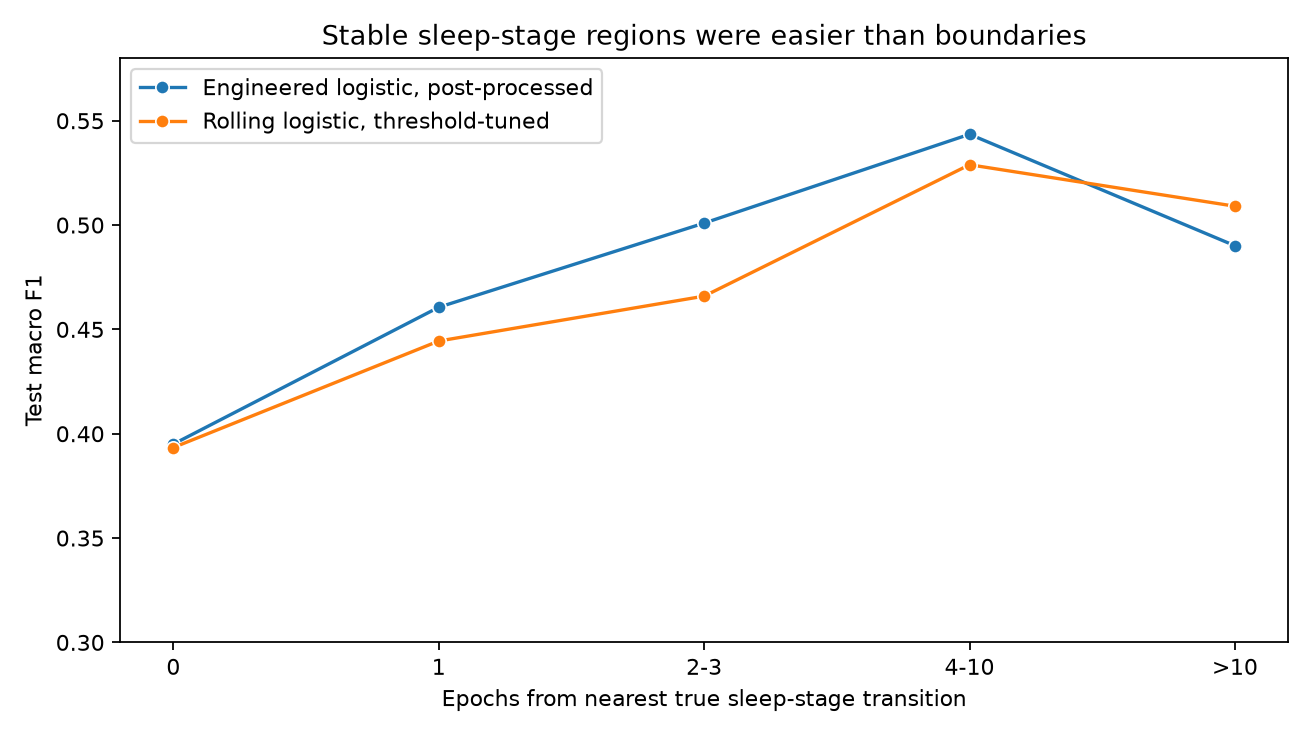
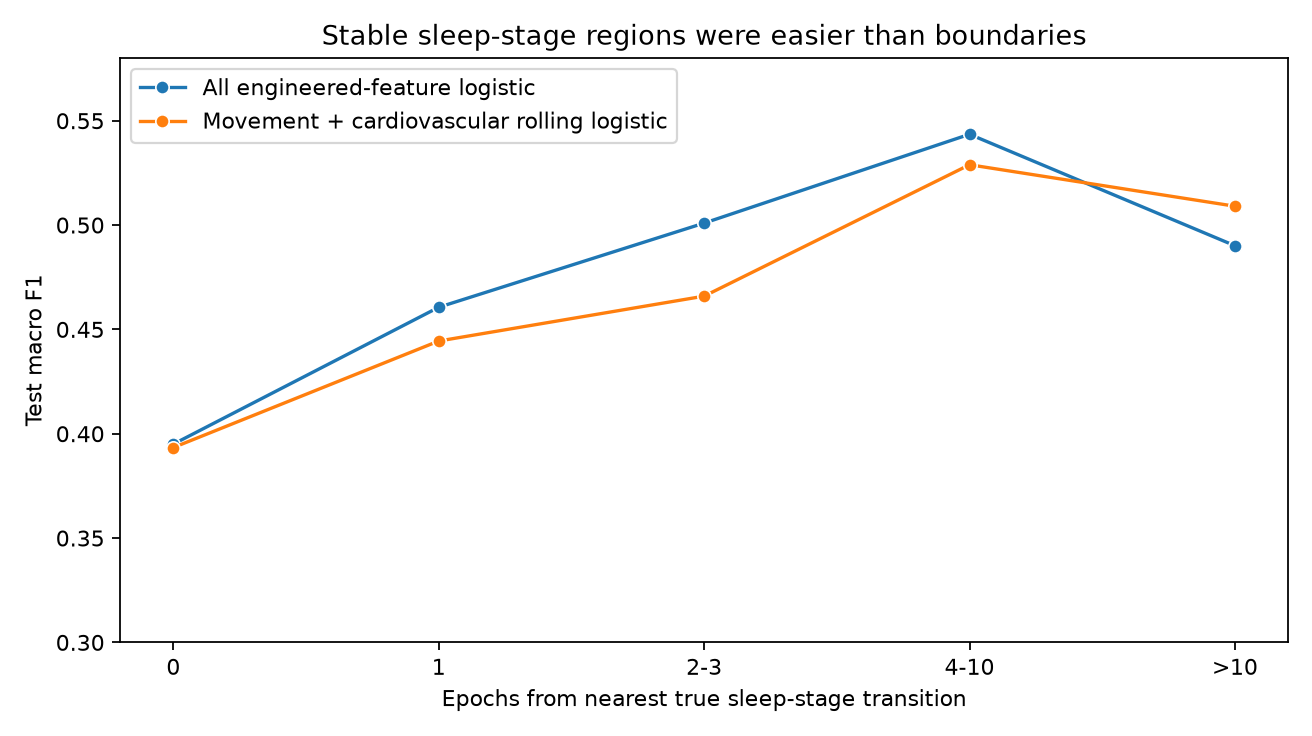
Add plots to illustrate limitations

Changed region(s): [[0.1562, 0.0938, 0.5312, 0.1875]]

diff --git a/scripts/generate_readme_figures.py b/scripts/generate_readme_figures.py
@@ -97,6 +97,7 @@ def main() -> None:
     make_postprocessing_tradeoff_figure()
     make_validation_ablation_figures()
     make_transition_distance_figure()
+    make_limitation_figures()
     make_coefficient_contrast_figure()
     write_artifact_manifest(key_results)
 
@@ -468,6 +469,107 @@ def make_transition_distance_figure() -> None:
     plt.close()
 
 
+def make_limitation_figures() -> None:
+    make_rem_prediction_composition_figure()
+    make_participant_rem_support_figure()
+
+
+def make_rem_prediction_composition_figure() -> None:
+    predictions = pd.read_csv(ROLLING / "metrics" / "rem_error_predictions.csv")
+    predicted_rem = predictions[predictions["pred_label"] == "REM"].copy()
+    counts = (
+        predicted_rem["true_label"]
+        .value_counts()
+        .rename_axis("true_label")
+        .reset_index(name="n_epochs")
+    )
+    label_order = ["Non-REM", "REM", "Wake"]
+    counts["display_order"] = counts["true_label"].map(
+        {label: index for index, label in enumerate(label_order)}
+    )
+    counts = counts.sort_values("display_order")
+    counts["fraction_of_predicted_rem"] = counts["n_epochs"] / counts[
+        "n_epochs"
+    ].sum()
+    counts.to_csv(SUMMARY / "rolling_rem_prediction_composition.csv", index=False)
+
+    plt.figure(figsize=(7.8, 3.8))
+    ax = sns.barplot(
+        data=counts,
+        x="n_epochs",
+        y="true_label",
+        hue="true_label",
+        order=label_order,
+        palette={
+            "Non-REM": "#72b7b2",
+            "REM": "#f58518",
+            "Wake": "#54a24b",
+        },
+        legend=False,
+    )
+    total = counts["n_epochs"].sum()
+    for patch, row in zip(ax.patches, counts.itertuples(index=False), strict=True):
+        ax.text(
+            patch.get_width() + total * 0.015,
+            patch.get_y() + patch.get_height() / 2,
+            f"{row.n_epochs:,} ({row.fraction_of_predicted_rem:.0%})",
+            va="center",
+            fontsize=9,
+        )
+    ax.set_xlim(0, total * 0.88)
+    ax.set_xlabel("Epochs predicted as REM")
+    ax.set_ylabel("True label")
+    ax.set_title("Raw rolling logistic REM predictions were mostly Non-REM")
+    plt.tight_layout()
+    plt.savefig(FIGURES / "rolling_rem_prediction_composition.png", dpi=160)
+    plt.close()
+
+
+def make_participant_rem_support_figure() -> None:
+    metrics = pd.read_csv(ROLLING / "metrics" / "per_participant_metrics.csv")
+    selected = metrics[metrics["variant"] == "raw_threshold_tuned"].copy()
+    selected = selected.sort_values("REM_support")
+    selected[
+        [
+            "participant_id",
+            "n_epochs",
+            "REM_support",
+            "macro_f1",
+            "REM_f1",
+        ]
+    ].to_csv(SUMMARY / "rolling_participant_rem_support.csv", index=False)
+
+    plt.figure(figsize=(7.8, 4.4))
+    ax = sns.scatterplot(
+        data=selected,
+        x="REM_support",
+        y="REM_f1",
+        size="n_epochs",
+        sizes=(35, 120),
+        color="#f58518",
+        edgecolor="black",
+        linewidth=0.5,
+        legend=False,
+    )
+    low_support = selected[selected["REM_support"] <= 15]
+    for row in low_support.itertuples(index=False):
+        ax.annotate(
+            row.participant_id,
+            (row.REM_support, row.REM_f1),
+            xytext=(5, 5),
+            textcoords="offset points",
+            fontsize=8,
+        )
+    ax.set_xlim(left=-3)
+    ax.set_ylim(-0.03, 0.55)
+    ax.set_xlabel("Participant REM epochs in held-out test set")
+    ax.set_ylabel("Participant REM F1")
+    ax.set_title("Low REM support makes participant-level REM F1 unstable")
+    plt.tight_layout()
+    plt.savefig(FIGURES / "rolling_participant_rem_support.png", dpi=160)
+    plt.close()
+
+
 def make_coefficient_contrast_figure() -> None:
     contrasts = pd.read_csv(ROLLING / "metrics" / "coefficient_contrasts.csv")
     subset = (
@@ -551,6 +653,26 @@ def write_artifact_manifest(key_results: pd.DataFrame) -> None:
                 "supports": "Rolling logistic interpretation",
             },
             {
+                "artifact": "summary/rolling_rem_prediction_composition.csv",
+                "source": (
+                    "outputs/runs/final_test_evaluation/"
+                    "rolling_logistic_interpretation/metrics/"
+                    "rem_error_predictions.csv"
+                ),
+                "metric_scope": "locked-test interpretation",
+                "supports": "REM overprediction limitation figure",
+            },
+            {
+                "artifact": "summary/rolling_participant_rem_support.csv",
+                "source": (
+                    "outputs/runs/final_test_evaluation/"
+                    "rolling_logistic_interpretation/metrics/"
+                    "per_participant_metrics.csv"
+                ),
+                "metric_scope": "locked-test interpretation",
+                "supports": "Low participant REM support limitation figure",
+            },
+            {
                 "artifact": "figures/postprocessing_tradeoff.png",
                 "source": (
                     "outputs/runs/final_test_evaluation/locked_test_metrics.csv; "
@@ -591,6 +713,26 @@ def write_artifact_manifest(key_results: pd.DataFrame) -> None:
                 "supports": "Transition-distance failure analysis",
             },
             {
+                "artifact": "figures/rolling_rem_prediction_composition.png",
+                "source": (
+                    "outputs/runs/final_test_evaluation/"
+                    "rolling_logistic_interpretation/metrics/"
+                    "rem_error_predictions.csv"
+                ),
+                "metric_scope": "locked-test interpretation",
+                "supports": "REM overprediction limitation figure",
+            },
+            {
+                "artifact": "figures/rolling_participant_rem_support.png",
+                "source": (
+                    "outputs/runs/final_test_evaluation/"
+                    "rolling_logistic_interpretation/metrics/"
+                    "per_participant_metrics.csv"
+                ),
+                "metric_scope": "locked-test interpretation",
+                "supports": "Low participant REM support limitation figure",
+            },
+            {
                 "artifact": "figures/rolling_logistic_rem_contrast.png",
                 "source": (
                     "outputs/runs/final_test_evaluation/"
@@ -627,6 +769,9 @@ curated evidence set.
   `summary/rolling_rem_error_counts.csv`, and
   `summary/rolling_transition_distance_metrics.csv` support the rolling
   logistic interpretation discussion.
+- `summary/rolling_rem_prediction_composition.csv` and
+  `summary/rolling_participant_rem_support.csv` support the README limitation
+  figures.
 - `summary/artifact_manifest.csv` maps each curated file to its source
   artifact, metric scope, and README claim.
 
@@ -643,6 +788,10 @@ curated evidence set.
   and XGBoost.
 - `figures/transition_distance_macro_f1.png` summarizes locked-test macro F1 by
   distance to the nearest true sleep-stage transition.
+- `figures/rolling_rem_prediction_composition.png` shows the true-label
+  composition of epochs predicted as `REM` by the raw rolling logistic model.
+- `figures/rolling_participant_rem_support.png` shows participant-level `REM`
+  F1 versus `REM` support for the threshold-tuned rolling logistic model.
 - `figures/rolling_logistic_rem_contrast.png` shows the largest standardized
   rolling-logistic coefficient contrasts for `REM` versus `Non-REM`.
 
@@ -673,24 +822,26 @@ models, alter the final held-out test protocol, or inspect raw DREAMT data.
 
 def _variant_label(candidate: str, variant: str) -> str:
     labels = {
-        ("best_original_ablation", "raw"): "Engineered logistic, raw",
+        ("best_original_ablation", "raw"): "All engineered-feature logistic",
         (
             "best_original_ablation",
             "platt_smoothed_threshold_tuned",
-        ): "Engineered logistic, post-processed",
-        ("interpretable_rolling_logistic", "raw"): "Rolling logistic, raw",
+        ): "All engineered-feature logistic",
+        ("interpretable_rolling_logistic", "raw"): (
+            "Movement + cardiovascular rolling logistic"
+        ),
         (
             "interpretable_rolling_logistic",
             "raw_threshold_tuned",
-        ): "Rolling logistic, threshold-tuned",
+        ): "Movement + cardiovascular rolling logistic",
         (
             "interpretable_rolling_logistic",
             "platt_threshold_tuned",
-        ): "Rolling logistic, Platt + threshold",
+        ): "Movement + cardiovascular rolling logistic",
         (
             "interpretable_rolling_logistic",
             "platt_smoothed_threshold_tuned",
-        ): "Rolling logistic, Platt + smoothing + threshold",
+        ): "Movement + cardiovascular rolling logistic",
     }
     return labels[(candidate, variant)]
 

diff --git a/README.md b/README.md
@@ -106,11 +106,11 @@ can look REM-like in this feature space.
 
 ## Validation Ablation Findings
 
-The first set of ablation experiments focused on feature families: within-epoch statistical summaries, signal-specific physiological features, centered rolling temporal-context features, and whole-night participant-normalized features. These signal families were added sequentially to each model family. As illustrated by the figure below, results indicate that temporal-context features carry the most information.
+The first set of ablation experiments focused on feature families: within-epoch statistical summaries, signal-specific physiological features, centered rolling temporal-context features, and whole-night participant-normalized features. These signal families were added sequentially to each model family. As illustrated by the figure below, results indicate that temporal-context features carry the most information. Note that this figure was produce by averaging F1 scores across model families (performance across families was similar).
 
 ![Feature-family validation ablations](results/figures/validation_feature_family_ablation.png)
 
-The second set of ablation experiments focused on signal groups: movement, cardiovascular, electrodermal, and skin temperature. Each model family used a single signal group for prediction, then the experiment iterated through the different signal groups. The results, summarized by the figure below, suggest that movement and cardiovascular signals are the most predictive.
+The second set of ablation experiments focused on signal groups: movement, cardiovascular, electrodermal, and skin temperature. Each model family used a single signal group for prediction, then the experiment iterated through the different signal groups. The results, summarized by the figure below, suggest that movement and cardiovascular signals are the most predictive. Similar to the previous figure, F1 scores were averaged across model families.
 
 ![Signal-group validation ablations](results/figures/validation_signal_group_ablation.png)
 
@@ -207,16 +207,22 @@ python scripts/run_rolling_logistic_interpretation.py
 
 ## Limitations
 
-- Movement features help separate `Wake` from sleep states; however, as illustrated below using the interpretable logistic model, "quiet" `Non-REM` is often treated as `REM`.
-  and thresholding.
-- Model performance declines near sleep-stage transitions. 
+For each limitation described below, the figure that follows uses the interpretable logistic regression model to illustrate the limitation.
+
+- Movement features help separate `Wake` from sleep states; however, "quiet" `Non-REM` is often treated as `REM`.
+
+![REM prediction composition](results/figures/rolling_rem_prediction_composition.png)
+
+- Model performance declines near sleep-stage transitions.
 
 ![Transition-distance macro F1](results/figures/transition_distance_macro_f1.png)
 
-- `REM` support (i.e., the number of `REM` epochs) is very low for certain participants, which makes participant-level performance difficult to assess. 
+- `REM` support (i.e., the number of `REM` epochs) is very low for certain participants, which makes participant-level performance difficult to assess.
+
+![Participant REM support](results/figures/rolling_participant_rem_support.png)
 
 ## Future work
 
-- Given the relative success of disinguishing `Wake` from `Non-REM` and `REM`, hierarchical modeling may improve performance on sleep states.
-- Results suggest that temporal-context, movement signals, and cardiovascular signals are informative; however, verifying these conclusions on datasets other than DREAMT would strengthen results. 
+- Given the relative success of disinguishing `Wake` from `Non-REM` and `REM`, a reasonable next step is using hierarchical modeling to try to improve separation of sleep states.
+- Results suggest that temporal-context, movement signals, and cardiovascular signals are informative; however, verifying these conclusions on datasets other than DREAMT would add credibility. 
 - To help assess whether additional complexity earns its keep in this problem, quantify the difference in training time between traditional ML and DL models.

diff --git a/results/MANIFEST.md b/results/MANIFEST.md
@@ -18,6 +18,9 @@ curated evidence set.
   `summary/rolling_rem_error_counts.csv`, and
   `summary/rolling_transition_distance_metrics.csv` support the rolling
   logistic interpretation discussion.
+- `summary/rolling_rem_prediction_composition.csv` and
+  `summary/rolling_participant_rem_support.csv` support the README limitation
+  figures.
 - `summary/artifact_manifest.csv` maps each curated file to its source
   artifact, metric scope, and README claim.
 
@@ -34,6 +37,10 @@ curated evidence set.
   and XGBoost.
 - `figures/transition_distance_macro_f1.png` summarizes locked-test macro F1 by
   distance to the nearest true sleep-stage transition.
+- `figures/rolling_rem_prediction_composition.png` shows the true-label
+  composition of epochs predicted as `REM` by the raw rolling logistic model.
+- `figures/rolling_participant_rem_support.png` shows participant-level `REM`
+  F1 versus `REM` support for the threshold-tuned rolling logistic model.
 - `figures/rolling_logistic_rem_contrast.png` shows the largest standardized
   rolling-logistic coefficient contrasts for `REM` versus `Non-REM`.
 
